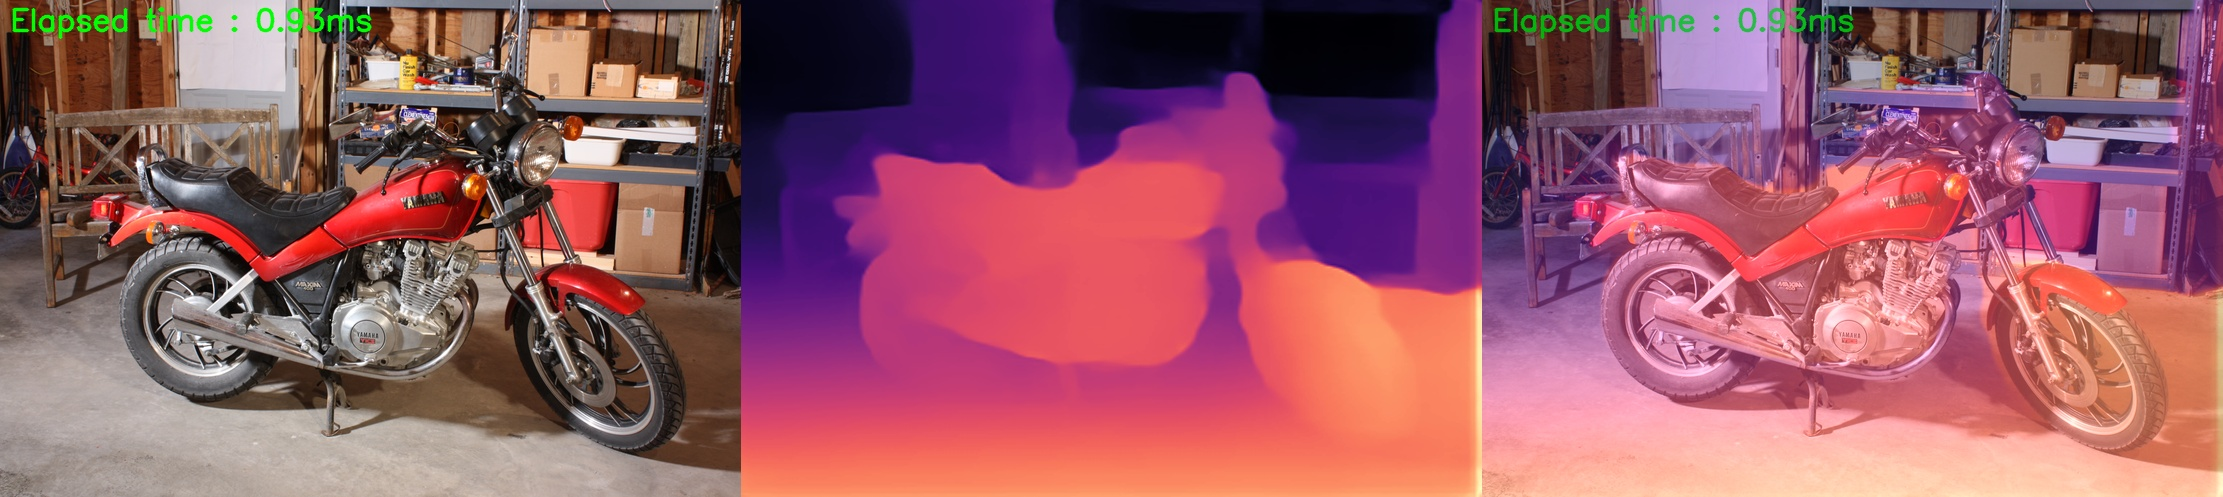
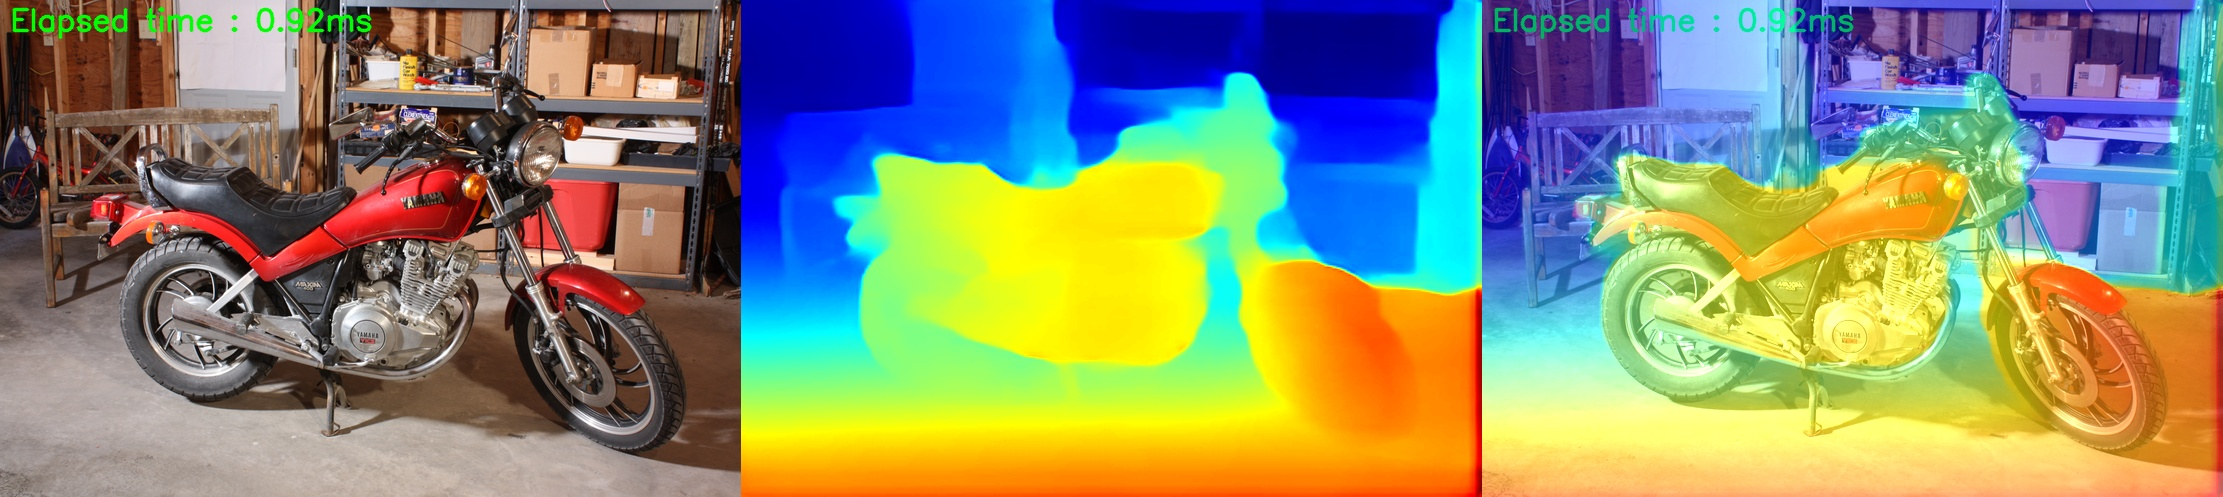
vid1

diff --git a/test_midasv2_nV.py b/test_midasv2_nV.py
@@ -2,7 +2,7 @@ import platform
 import cv2
 # import pafy
 import numpy as np
-from rknnlite.api import RKNNLite
+from rknn.api import RKNN
 from MidasDepthEstimation.midasRknnEstimator import midasRknnEstimator
 
 # videoUrl = 'https://youtu.be//TGadVbd-C-E'
@@ -68,7 +68,7 @@ def save_depth_video(rknn):
     result.release()
 
 if __name__ == '__main__':
-    rknn_lite = RKNNLite()
+    rknn_lite = RKNN()
 
     # load RKNN model
     print('--> Load RKNN model')

diff --git a/MidasDepthEstimation/midasRknnEstimator.py b/MidasDepthEstimation/midasRknnEstimator.py
@@ -71,7 +71,7 @@ class midasRknnEstimator():
 		return estimatedDepth
 
 	def drawDepth(self, processedDisparity):
-		return cv2.applyColorMap(processedDisparity, cv2.COLORMAP_MAGMA)
+		return cv2.applyColorMap(processedDisparity, cv2.COLORMAP_JET)
 
 	def updateFps(self):
 		updateRate = 1
